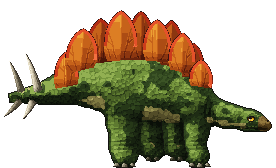
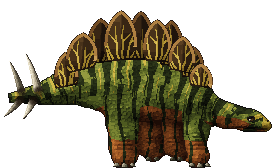
Stegosaur: olive with bold dark tiger bands, a rusty underside, dark striped plates
As the user asked: olive green with bold, almost black bands across the
back, flanks, neck and tail, broken and forking, thick over the back and
thinning down the flanks; ochre streaks between them; the throat, belly
and lower legs rusty brown; pebbly skin with round scutes on the thighs,
shoulders and neck, folds at the neck's root and the knees. The plates
are dark brown with pale yellow veins fanning from the base (Plate's
Vein) inside a tan edge, the biggest over the hips; the tail spikes are
bone with dark bases (Tint); a yellow beak tip and a dark eye.

diff --git a/internal/dinopaint/stego.go b/internal/dinopaint/stego.go
@@ -1,5 +1,7 @@
 package dinopaint
 
+import "math"
+
 // The plated one: dinos/stego.png, 92 x 56, facing right. Its rig is
 // "stego" in internal/client/dinorigs.go: legs near hind (hip 40.5, 36),
 // far hind (50, 37), far fore (58, 38), near fore (66, 37); the head turns
@@ -7,12 +9,14 @@ package dinopaint
 // 43); the end of the tail, with its spikes, swings about (17.5, 30).
 
 var (
-	plateFace = []uint32{0x4a1608, 0x6a240c, 0x8c3610, 0xac4c14, 0xc6621a, 0xdc7e24, 0xeca034, 0xf6be54}
-	plateRim  = []uint32{0x3c0a06, 0x62120a, 0x8a1e0e, 0xb02c14, 0xcc3c1c, 0xe4522a, 0xf47040, 0xff9a68}
+	plateFace = []uint32{0x0c0806, 0x140c08, 0x1e140c, 0x2a1c10, 0x382614, 0x48321a, 0x5a4022, 0x6e502c}
+	plateRim  = []uint32{0x22160c, 0x3a2614, 0x56381c, 0x744e26, 0x926632, 0xae8042, 0xc69c56, 0xdab870}
+	plateVein = []uint32{0x3e3012, 0x5c4818, 0x7c6420, 0x9a7e2a, 0xb69836, 0xccb04a, 0xdec462, 0xeed880}
 	spikeBone = []uint32{0x4e4838, 0x7a725e, 0xa69c84, 0xcac0a6, 0xe6dec6, 0xfaf6ea}
 	stegoHoof = []uint32{0x2a2a1c, 0x56523e, 0x86806a, 0xb4ae96, 0xd8d4c0}
-	stegoIris = []uint32{0x4a2a04, 0x7a4a06, 0xb07808, 0xdca414, 0xffc838, 0xffe68a}
-	stegoHide = []uint32{0x141c0e, 0x1e2a12, 0x2a3a18, 0x384c1e, 0x4a6226, 0x5e7a30, 0x76963e, 0x92b052}
+	stegoIris = []uint32{0x0a0604, 0x140c06, 0x22160a, 0x34220e, 0x4a3214, 0x60421c}
+	stegoHide = []uint32{0x12160a, 0x1e240e, 0x2c3414, 0x3c461a, 0x4e5a20, 0x626e28, 0x7a8432, 0x949a40}
+	stegoRust = []uint32{0x1c0c06, 0x2c140a, 0x40200e, 0x582c12, 0x703a18, 0x8a4a1e, 0xa45c26, 0xbc7030}
 )
 
 func init() { Register(stego()) }
@@ -24,14 +28,14 @@ var stegoPlates = []PlateSpec{
 	{BX0: 29.4, BY0: 21.5, BX1: 37.4, BY1: 20.5, TX: 33.6, TY: 6, Bulge: 1.6},
 	{BX0: 43.2, BY0: 20, BX1: 50.6, BY1: 20, TX: 47, TY: 3.6, Bulge: 1.6},
 	{BX0: 53.6, BY0: 21.5, BX1: 60.4, BY1: 22.6, TX: 57.2, TY: 6.6, Bulge: 1.5},
-	{BX0: 60.8, BY0: 25.5, BX1: 67.4, BY1: 26.5, TX: 64.6, TY: 14.2, Bulge: 1.2},
+	{BX0: 60.8, BY0: 25.5, BX1: 67.4, BY1: 26.5, TX: 64.6, TY: 15.4, Bulge: 1.2},
 	// The near row.
 	{BX0: 18.6, BY0: 29.6, BX1: 25.8, BY1: 28.2, TX: 21.8, TY: 17.2, Bulge: 1.2}, // clear of the tail's joint, at 17.5
-	{BX0: 22.5, BY0: 24.5, BX1: 31.2, BY1: 22.5, TX: 27.8, TY: 9.4, Bulge: 1.8},
+	{BX0: 22.5, BY0: 24.5, BX1: 31.2, BY1: 22.5, TX: 27.8, TY: 10.8, Bulge: 1.8},
 	{BX0: 35.8, BY0: 20.5, BX1: 44.4, BY1: 19.8, TX: 40.4, TY: 3.4, Bulge: 1.9},
 	{BX0: 48.6, BY0: 20.2, BX1: 56.2, BY1: 20.8, TX: 52.4, TY: 6.4, Bulge: 1.6},
-	{BX0: 56.8, BY0: 23.2, BX1: 64.2, BY1: 24.8, TX: 61, TY: 10.8, Bulge: 1.5},
-	{BX0: 63.6, BY0: 28.5, BX1: 70.4, BY1: 29.5, TX: 67, TY: 19.8, Bulge: 1.2},
+	{BX0: 56.8, BY0: 23.2, BX1: 64.2, BY1: 24.8, TX: 61, TY: 12, Bulge: 1.5},
+	{BX0: 63.6, BY0: 28.5, BX1: 70.4, BY1: 29.5, TX: 67, TY: 21, Bulge: 1.2},
 }
 
 const stegoFar = 4 // the first four plates are the far row
@@ -68,7 +72,19 @@ func stego() *Species {
 		Cone(63.5, 32, 6.5, 73.5, 37.6, 4.2), // the neck, low, the head carried near the ground
 		Poly(71, 33.4, 75, 32.8, 80, 33.4, 84, 34.6, 87.6, 36.4, 90.4, 38.6, 91.2, 41.2, 89.8, 43.4, 84, 43.8, 78, 42.8, 72.5, 42.2, 69.5, 41),
 	)
-	beak := Poly(86.2, 39, 89, 38.4, 91.4, 40.6, 91, 43.2, 88, 44, 86, 43.2)
+	beak := Poly(87.6, 38.8, 89.4, 38.4, 91.4, 40.6, 91, 43.2, 88.6, 44, 87.4, 42.6)
+	// The underside, rusty: below a wavering line along the belly (not the
+	// near thigh and upper arm), the throat, the legs below the knees.
+	bellyLine := func(x, y float64) float64 {
+		return 35.6 + 0.004*(x-45)*(x-45) + 2.4*(fbm(x*0.2, y*0.2, 13, 2)-0.5) - y
+	}
+	throat := func(x, y float64) float64 { return 39.6 + (x-64)*0.17 + 1.2*(fbm(x*0.3, y*0.3, 17, 2)-0.5) - y }
+	legs := func(x, y float64) float64 { return 46.6 + 1.6*(fbm(x*0.3, y*0.2, 19, 2)-0.5) - y }
+	under := Union(
+		Cut(bellyLine, Union(Cone(40.5, 33, 6.4, 41.5, 45, 4.6), Cone(66, 36.5, 5.4, 65.5, 45, 4.4))),
+		Inter(throat, head),
+		legs,
+	)
 	return &Species{
 		Name:        "stego",
 		GuideDetail: 0.4,
@@ -85,17 +101,24 @@ func stego() *Species {
 			{Region: Poly(0, 0, 92, 0, 92, 56, 0, 56), From: []string{"plate", "bone"}, To: "hide"},
 		},
 		Materials: []Material{
-			{Name: "hide", Seeds: []uint32{0x495d2a, 0x445c30, 0x5a7640, 0x64803a, 0x728f52, 0x81a04d, 0x8ca866, 0x9fbb64, 0xbcd284},
+			// Olive green, lime and ochre where the light catches it.
+			{Name: "hide", Seeds: []uint32{0x495d2a, 0x445c30, 0x5a7640, 0x64803a, 0x728f52, 0x81a04d, 0x8ca866, 0x9fbb64, 0xbcd284, 0x1c2612, 0x1f2c17, 0x304322, 0x31401d, 0x2b2f1b, 0x29371d, 0x2c3819},
 				Ramp:   stegoHide,
 				Region: Poly(30, 49, 75, 49, 75, 57, 30, 57), Only: []string{"bone", "belly"}}, // the guide's nails are painted again
-			// The dark green blotches all over it, as drawn.
-			{Name: "mottle", Seeds: []uint32{0x1c2612, 0x1f2c17, 0x304322, 0x31401d, 0x2b2f1b, 0x29371d, 0x2c3819},
-				Ramp: []uint32{0x0a0f08, 0x10180c, 0x172210, 0x1e2c14, 0x263818, 0x30461e, 0x3c5426, 0x4a642e}, Smooth: 0.6, Bias: 0.12},
 			{Name: "belly", Seeds: []uint32{0x99874b, 0xa09276, 0x938b74, 0x76743c, 0xc4c074, 0xe0dc98, 0x9e9c54},
-				Ramp: []uint32{0x2a2814, 0x3c381c, 0x524c28, 0x686234, 0x807a42, 0x989252, 0xb0aa66, 0xc8c280}, Relief: 0.7},
+				Ramp: stegoHide, Relief: 0.7},
 			{Name: "plate", Seeds: []uint32{0xe0882a, 0xc4621c, 0xf47a4a, 0xe45232, 0xc4301e, 0x9a4216, 0x6a2a12, 0x4e130c}, Ramp: stegoHide},
 			{Name: "bone", Seeds: []uint32{0xeee6cc, 0xfffaea, 0xd2c6a6, 0xa89a7c}, Ramp: stegoHide},
-			{Name: "beak", Ramp: []uint32{0x1c1408, 0x2a1e0c, 0x3c2c12, 0x503c1a, 0x664e24, 0x7c6230, 0x92783e, 0xa88e50}, Relief: 0.3,
+			// The throat, the belly and the lower legs shade to rust.
+			{Name: "rust", Ramp: stegoRust, Relief: 0.8, Region: under, Only: []string{"hide", "belly"}},
+			// Bold dark bands across it, as a tiger's: thick over the back,
+			// thinning down the flanks, broken and forking.
+			{Name: "stripe", Ramp: []uint32{0x050604, 0x090b06, 0x0e1108, 0x13170b, 0x191e0e, 0x1f2612, 0x272f16, 0x30391b},
+				Region: stegoStripes, Only: []string{"hide", "rust"}},
+			// Streaks of yellow ochre between them, high on the flanks.
+			{Name: "ochre", Ramp: []uint32{0x241e08, 0x382e0c, 0x504212, 0x6a5818, 0x86701e, 0xa28a28, 0xbaa236, 0xd2ba4a},
+				Region: stegoOchre, Only: []string{"hide"}},
+			{Name: "beak", Ramp: []uint32{0x241c08, 0x3a2c0c, 0x544212, 0x6e5a1a, 0x8a7424, 0xa68e30, 0xbea840, 0xd4c058}, Relief: 0.3,
 				Region: beak},
 		},
 		Parts: []Part{
@@ -131,12 +154,21 @@ func stego() *Species {
 				Mu(66.8, 53, 3.2, 1.7, 0, 0.6),
 			}},
 		},
-		Skin: Skin{Flank: 2.0, Back: 3.0, Belly: 1.5, BackDepth: 4, BellyDepth: 4, Seed: 41},
+		Skin: Skin{Flank: 1.6, Back: 2.4, Belly: 1.3, BackDepth: 4, BellyDepth: 4, Seed: 41},
 		Osteoderms: []Row{
-			// Little bony studs along the flank, low, and on the throat.
+			// Pebbly skin, with bigger round scutes on the thighs, the shoulders
+			// and the neck, and a row of studs low on the flank.
 			{X0: 26, X1: 60, Off: 13.5, Gap: 3.4, R: 0.75, Parts: []string{"body"}},
+			{X0: 36.5, X1: 45, Off: 15.5, Gap: 2.6, R: 0.95, Parts: []string{"nearHind"}},
+			{X0: 37, X1: 44.5, Off: 18.5, Gap: 2.8, R: 0.85, Parts: []string{"nearHind"}},
+			{X0: 61.5, X1: 69.5, Off: 11.5, Gap: 2.6, R: 0.9, Parts: []string{"nearFore", "body"}},
+			{X0: 62, X1: 69, Off: 14.2, Gap: 2.7, R: 0.8, Parts: []string{"nearFore"}},
+			{X0: 66, X1: 80, Off: 2.6, Gap: 2.4, R: 0.8, Parts: []string{"head"}},
 		},
 		Folds: []Fold{
+			{Pts: []float64{39.2, 44.2, 43.8, 44.6}, N: 2, DY: 1.3, Depth: 1.1}, // the knees
+			{Pts: []float64{63.4, 44.2, 67.8, 44.6}, N: 2, DY: 1.3, Depth: 1.1},
+			{Pts: []float64{62.5, 30.5, 61.6, 34.5, 62.2, 38.5}, N: 2, DX: 1.6, Depth: 1.1},        // the root of the neck
 			{Pts: []float64{69, 33.5, 68.2, 37.5, 68.8, 41.5}, N: 3, DX: 1.6, DY: 0.2, Depth: 1.0}, // the neck
 			{Pts: []float64{38, 47, 44.5, 46.8}, N: 3, DY: 1.4, Depth: 0.9},                        // wrinkled legs
 			{Pts: []float64{62.5, 47, 69, 46.8}, N: 3, DY: 1.4, Depth: 0.9},
@@ -154,9 +186,14 @@ func stegoDetails(p *Painter) {
 	p.Horn(HornSpec{X0: 6.6, Y0: 33.6, X1: 1.4, Y1: 38.8, W: 2.2, Bend: 0.4, Ramp: spikeBone, Shade: -0.3})
 	p.Horn(HornSpec{X0: 12.8, Y0: 30.4, X1: 8.6, Y1: 17.8, W: 2.9, Bend: 0.6, Ramp: spikeBone, Grooves: true})
 	p.Horn(HornSpec{X0: 11, Y0: 33.6, X1: 7.6, Y1: 39.8, W: 2.5, Bend: 0.4, Ramp: spikeBone})
+	// Their bases dark, where they grow out of the skin.
+	for _, r := range [][2]float64{{7.2, 30.6}, {6.6, 33.6}, {12.8, 30.4}, {11, 33.6}} {
+		p.Tint(Circle(r[0], r[1], 2.2), 0x1e140c, 0.7, 1.4)
+	}
 	// The plates: the far row darker, behind the near one.
 	for i, s := range stegoPlates {
-		s.Face, s.Rim, s.Grooves, s.Seed = plateFace, plateRim, 4, uint32(i+1)
+		s.Face, s.Rim, s.Grooves, s.Seed = plateFace, plateRim, 6, uint32(i+1)
+		s.Vein, s.VeinW = plateVein, 0.38
 		if i < stegoFar {
 			s.Shade = -0.2
 		}
@@ -171,4 +208,43 @@ func stegoDetails(p *Painter) {
 	for _, n := range [][2]float64{{49.6, 53.6}, {52.2, 53.5}, {57.6, 53.6}, {60, 53.5}} {
 		p.Nail(n[0], n[1], 1.9, 1.3, stegoHoof, -0.45)
 	}
+}
+
+// stegoPhase is where (x, y) falls among the bands across the stegosaur:
+// their phase, a band every whole number, and how deep below the back it
+// is (0 on the back, 1 down at the belly). The bands lean to stand square
+// to the arch of the back, fanning from the hips, and wander.
+func stegoPhase(x, y float64) (ph, depth float64) {
+	back := 17 + 0.012*(x-45)*(x-45) // about where the back is, under the plates
+	depth = clamp01((y - back) / 22)
+	lean := (x - 42) * 0.2 * clamp01((y-back)/12)
+	return (x + lean + 4.6*(fbm(x*0.08, y*0.12, 21, 3)-0.5)) / 5.4, depth
+}
+
+// stegoStripes is the dark bands: thick over the back, thinning down the
+// flanks, broken here and there, forking.
+func stegoStripes(x, y float64) float64 {
+	ph, depth := stegoPhase(x, y)
+	f := math.Abs(ph - math.Floor(ph) - 0.5)
+	half := 0.3 * (1 - 0.65*depth) * (0.7 + 0.6*fbm(x*0.3, y*0.2, 31, 2))
+	if fbm(x*0.22, y*0.3, 23, 2) < 0.36 {
+		half *= 0.25 // a break
+	}
+	d := (f - half) * 5.4
+	if fbm(x*0.15, y*0.15, 27, 2) > 0.57 { // a fork beside it
+		g := ph + 0.36
+		d = min(d, (math.Abs(g-math.Floor(g)-0.5)-0.08*(1-depth))*5.4)
+	}
+	return d
+}
+
+// stegoOchre is the streaks of ochre between the bands, high on the flanks.
+func stegoOchre(x, y float64) float64 {
+	ph, depth := stegoPhase(x, y)
+	half := 0.1 * (1 - 1.5*depth)
+	if half <= 0 || fbm(x*0.25, y*0.25, 29, 2) < 0.42 {
+		return 1
+	}
+	g := ph + 0.5
+	return (math.Abs(g-math.Floor(g)-0.5) - half) * 5.4
 }

diff --git a/internal/dinopaint/plate.go b/internal/dinopaint/plate.go
@@ -18,6 +18,10 @@ type PlateSpec struct {
 	Shade              float64  // added to its light: below 0 for a plate on the far side
 	Grooves            int      // the blood vessels' grooves fanning up from the base
 	Seed               uint32
+	// Vein, when set, draws the grooves as pale streaks in these colours,
+	// VeinW wide at the root (guide pixels), as a striped plate's.
+	Vein  []uint32
+	VeinW float64
 }
 
 // outline is the plate's edge as a polygon: the base, then a curve up the
@@ -142,9 +146,14 @@ func (p *Painter) Plate(s PlateSpec) {
 		if math.Abs(across) < 0.3 && along > 0.1 && along < 0.92 {
 			v += 0.07 // the ridge catches the light
 		}
-		if gd, gt := groove(x, y); gd < 0.2 && d > 0.6 {
+		gd, gt := groove(x, y)
+		vein := false
+		switch {
+		case s.Vein != nil:
+			vein = gd < s.VeinW*(1-0.55*gt) && d > 0.5
+		case gd < 0.2 && d > 0.6:
 			v -= 0.15 * (1 - 0.5*gt)
-		} else if gd < 0.45 && d > 0.6 {
+		case gd < 0.45 && d > 0.6:
 			v += 0.04
 		}
 		// The edge: which way it faces.
@@ -170,6 +179,9 @@ func (p *Painter) Plate(s PlateSpec) {
 			// The thin edge: the light shines through it, brightest where it
 			// faces away from the light and is lit from behind.
 			return pick(s.Rim, 0.55+0.25*lit+0.15*(1-lit)*smoothstep(0.3, 1, along)+s.Shade+0.15*(v-0.55))
+		}
+		if vein {
+			return pick(s.Vein, v+0.1-0.25*gt)
 		}
 		return pick(s.Face, v)
 	})

diff --git a/internal/dinopaint/gloss.go b/internal/dinopaint/gloss.go
@@ -88,3 +88,21 @@ func (p *Painter) Clear(s SDF) {
 		}
 	}
 }
+
+// Tint mixes everything painted inside s, details too, t of the way
+// towards colour c, fading in over soft guide pixels from the edge.
+func (p *Painter) Tint(s SDF, c uint32, t, soft float64) {
+	col := rgb(c)
+	for py := 0; py < p.H; py++ {
+		for px := 0; px < p.W; px++ {
+			i := py*p.W + px
+			if !p.In[i] {
+				continue
+			}
+			x, y := G(px, py)
+			if d := -s(x, y); d > 0 {
+				p.Out[i] = Mix(p.Out[i], col, t*smoothstep(0, soft, d))
+			}
+		}
+	}
+}
